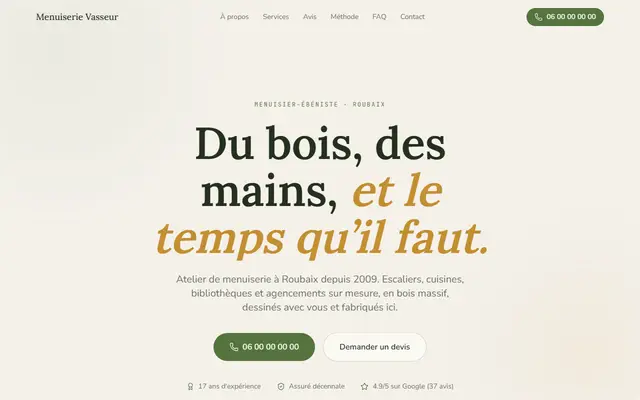
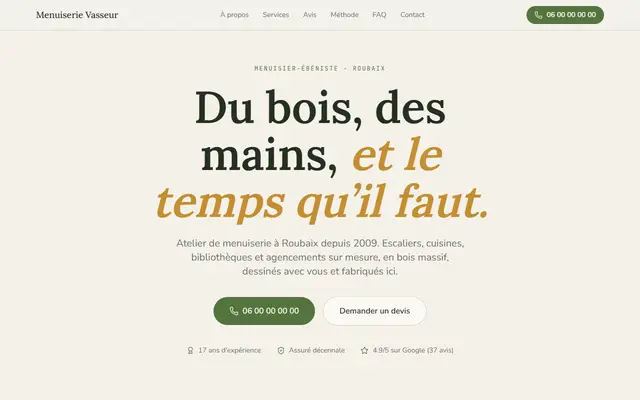
Selecteur et studio connaissent les coquilles et en-tetes ; 14 modeles avec coquille, vignettes regenerees ; tests des coquilles

diff --git a/scripts/studio/index.html b/scripts/studio/index.html
@@ -235,6 +235,15 @@
 
     <div class="section">
       <span class="label">Composition</span>
+      <div class="field">
+        <label>Disposition</label>
+        <div class="seg" id="segShell"></div>
+        <p class="hint" id="shellHint"></p>
+      </div>
+      <div class="field">
+        <label>En-têtes</label>
+        <div class="seg" id="segHeadings"></div>
+      </div>
       <div class="field"><label for="navSel">Navigation</label><select id="navSel"></select></div>
       <div class="field"><label for="heroSel">Hero</label><select id="heroSel"></select></div>
       <div class="field"><label for="footerSel">Pied de page</label><select id="footerSel"></select></div>
@@ -498,10 +507,33 @@
     renderSeg('segDivider', meta.dividers, layoutState.divider, (v) => { layoutState.divider = v; commitLayout(); });
     renderAccent();
     renderTypography();
+    renderShellSeg();
+    renderSeg('segHeadings', meta.headings, layoutState.headings, (v) => { layoutState.headings = v; commitLayout(); });
     renderCompositionSelects();
     renderSectionsList();
     renderAddSection();
     renderWording();
+  }
+
+  function renderShellSeg() {
+    const box = $('segShell');
+    box.innerHTML = '';
+    for (const s of meta.shells) {
+      const b = document.createElement('button');
+      b.type = 'button';
+      b.textContent = s.key;
+      b.title = s.hint;
+      b.className = layoutState.shell === s.key ? 'active' : '';
+      b.addEventListener('click', () => {
+        if (layoutState.shell === s.key) return;
+        layoutState.shell = s.key;
+        commitLayout();
+        renderShellSeg();
+      });
+      box.appendChild(b);
+    }
+    const current = meta.shells.find((s) => s.key === layoutState.shell);
+    $('shellHint').textContent = current ? current.hint : '';
   }
 
   function renderDirIndependent() {} // place pour extensions futures
@@ -625,9 +657,11 @@
     fillSelect($('navSel'), meta.variants.nav, layoutState.nav, (v) => { layoutState.nav = v; commitLayout(); });
     fillSelect($('heroSel'), meta.variants.hero, layoutState.hero, (v) => { layoutState.hero = v; commitLayout(); });
     fillSelect($('footerSel'), meta.variants.footer, layoutState.footer, (v) => { layoutState.footer = v; commitLayout(); });
-    // Re-sync segmented tone/divider display (layoutState is the source of truth for them).
+    // Re-sync segmented tone/divider/shell/headings display (layoutState is the source of truth for them).
     renderSeg('segTone', meta.tones, layoutState.tone, (v) => { layoutState.tone = v; commitLayout(); });
     renderSeg('segDivider', meta.dividers, layoutState.divider, (v) => { layoutState.divider = v; commitLayout(); });
+    renderShellSeg();
+    renderSeg('segHeadings', meta.headings, layoutState.headings, (v) => { layoutState.headings = v; commitLayout(); });
   }
 
   function fillSelect(select, options, current, onChange) {

diff --git a/docs/DIRECTIONS.md b/docs/DIRECTIONS.md
@@ -243,6 +243,35 @@ ajoute un séparateur décoratif entre les sections du layout.
 | `rule` | `journal`, `pierre` — filet fin, éditorial. |
 | `zigzag` | `pop`, `encre`, `retro` — ludique ou trait dessiné à la main. |
 
+## Disposition (shell)
+
+`layout.shell` (`src/shells/<nom>.astro`) decide de la disposition globale de la page — nav, hero,
+sections et footer restent les memes composants, seule leur mise en page change. Une coquille ne
+restyle jamais une section (voir `docs/CONVENTIONS.md` § Coquilles).
+
+| Shell | Quand l'utiliser |
+|---|---|
+| `flow` (défaut) | Colonne classique : nav en haut, hero, sections empilées, footer. Convient à tout, c'est le choix sûr par défaut. |
+| `split` | Panneau latéral fixe (nom, métier, navigation, téléphone, réseaux) à gauche, contenu qui défile à droite. Va bien avec `nav: 'bar'` ou `'minimal'` (le panneau remplace la nav sur desktop) ; évite `nav: 'floating'`. Agences, cabinets de conseil — tout ce qui bénéficie d'un accès permanent au téléphone/à la navigation. |
+| `sidebar` | Rail vertical étroit fixe à gauche (monogramme, liens en texte vertical, téléphone), contenu pleine largeur décalé. Même contrainte que `split` : évite `nav: 'floating'`. Studios créatifs, ateliers d'artiste — identité forte, esthétique minimale. |
+| `slides` | Chaque section occupe un écran plein, défilement aimanté (scroll-snap proximity, jamais piégeant). Réservé aux sites courts et aux directions peu animées : `motion !== 'rich'` (une direction déjà très animée + un défilement aimanté surchargerait l'expérience). |
+| `magazine` | Grille asymétrique : largeurs et décalages alternés, grands numéros de section en marge sur desktop. Évite `scale: 'compact'` (la mise en marge a besoin d'air). Cabinets, agences de design, journaux — mise en page éditoriale affirmée. |
+| `sticky-hero` | Le hero reste épinglé en fond, les sections glissent par-dessus comme une feuille. Marche mieux avec un hero plein écran : `hero` en `fullbleed`, `typographic` ou `video`. Maisons de luxe, hôtellerie, restauration — une image ou un message qui reste present pendant tout le défilement. |
+
+Ces contraintes (« va bien avec », « évite ») sont les règles d'adéquation appliquées par
+`ff composer` (`scripts/ff/composer.mjs`, fonction `shellFits`) et vérifiées pour chaque modèle par
+`tests/presets.test.mjs`.
+
+### En-têtes
+
+`layout.headings` force l'alignement des en-têtes de section :
+
+| Valeur | Effet |
+|---|---|
+| `auto` (défaut) | Chaque section garde l'alignement défini par sa propre variante. |
+| `center` | En-têtes centrés sur toutes les sections — direction posée, display, beaucoup de respiration (luxe, nuit, nordique). |
+| `left` | En-têtes alignés à gauche — lecture éditoriale, cohérent avec un panneau latéral (`shell: 'split'`) ou une direction dense en texte (journal, encre). |
+
 ## Libellés
 
 `wording` (`site.config.ts`) : `devis`, `ctaTitle`, `ctaText`, `contactTitle`, `contactText`. Le défaut

diff --git a/docs/CONVENTIONS.md b/docs/CONVENTIONS.md
@@ -31,6 +31,15 @@ Astro 5 (statique, zero JS par defaut) + Tailwind 4 (config CSS-first, `src/styl
 ## Regles des directions
 Voir `src/directions/README.md`. Une direction doit definir tous les tokens, importer ses polices via `@fontsource-variable/*` (deja installees : fraunces, inter, space-grotesk, cormorant, playfair-display, manrope, unbounded, syne, lora, nunito, archivo, dm-sans, jetbrains-mono, instrument-sans, outfit, bricolage-grotesque ; statiques : `@fontsource/archivo-black`, `@fontsource/instrument-serif`). Elle peut styliser `.btn`, `.btn-primary`, `.btn-ghost`, `.card`, `.rule`, `.eyebrow`, `h1 em`, `body::before` (texture), `::selection`.
 
+## Coquilles
+
+`src/shells/<nom>.astro` (`layout.shell`, voir `docs/DIRECTIONS.md` § Disposition) recoit les memes
+composants deja resolus (`Nav`, `Hero`, `Footer`, `sections`) et decide seulement ou ils vont sur la
+page. **Une coquille ne restyle jamais une section** : pas de couleur, pas de typographie, pas de
+props forcees sur `<Component />` — elle peut repositionner (grille, panneau fixe, plein ecran) et,
+au plus, poser `--container` ou une marge sur le conteneur autour d'une section. Le contenu visuel
+d'une section reste sous le controle de sa propre variante, quelle que soit la coquille qui l'entoure.
+
 ## Verification
 `SITE=_exemple node node_modules/astro/astro.js build` doit passer. Pour tester une variante, modifier temporairement `sites/_exemple/site.config.ts` (layout) puis remettre.
 

diff --git a/CLAUDE.md b/CLAUDE.md
@@ -61,9 +61,12 @@ Tous ces sous-commandes passent par `scripts/ff.mjs` (voir son en-tête : `Etend
 
 ## Où sont les choses
 
-- `src/lib/schema.ts` — schéma zod complet (`DIRECTIONS`, `MOTION`, `VARIANTS`, `siteSchema`).
+- `src/lib/schema.ts` — schéma zod complet (`DIRECTIONS`, `MOTION`, `VARIANTS`, `SHELLS`,
+  `HEADINGS`, `siteSchema`).
 - `src/lib/site.ts` — `site` courant + helpers (`tel`, `mailto`, `whatsapp`, `fullAddress`,
   `yearsSince`, `paragraphs`, `navLinks`).
+- `src/shells/<nom>.astro` — coquille de page (`layout.shell`) : rearrange nav/hero/sections/footer
+  autour de la mise en page, ne restyle jamais une section (voir `docs/CONVENTIONS.md` § Coquilles).
 - `src/sections/<Type>/<variante>.astro` — une section, une variante, un fichier.
 - `src/directions/<nom>/` — `index.css` (tokens + polices) + `meta.ts` (ambiance, métiers, à éviter).
 - `sites/<slug>/site.config.ts` — le contenu d'un client. `sites/<slug>/public/images/` — ses photos.
